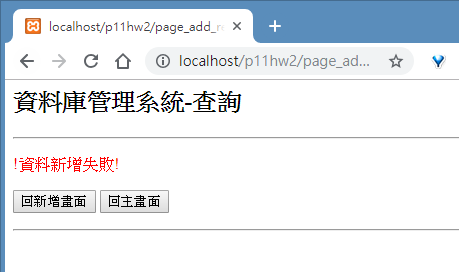
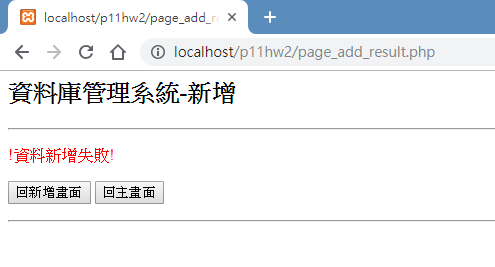
fix pic

Changed region(s): [[0.0, 0.0, 1.0, 1.0]]

diff --git a/page_add_result.php b/page_add_result.php
@@ -1,4 +1,4 @@
-<h2>資料庫管理系統-查詢</h2>
+<h2>資料庫管理系統-新增</h2>
 <hr>
 
 <?php
